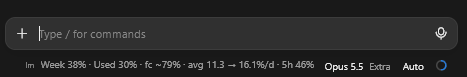
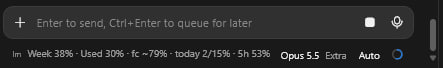
Show the today line in the README screenshot

diff --git a/README.md b/README.md
@@ -6,7 +6,7 @@ through your weekly limit too fast or leaving it unused:
 ![The lm line under the prompt in the Claude desktop app, beside the model's name](docs/screenshot.png)
 
 ```
-lm  Week 38% · Used 30% · fc ~79% · today 2/15% · 5h 51%
+lm  Week 38% · Used 30% · fc ~79% · today 2/15% · 5h 53%
 ```
 
 | Field | Meaning |
